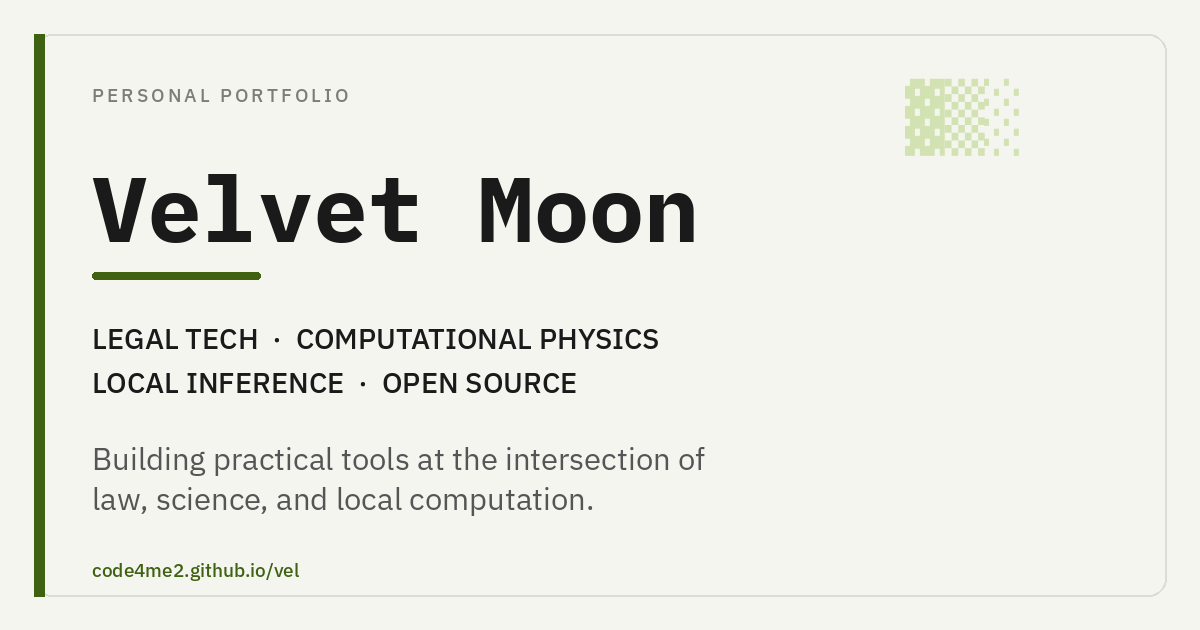
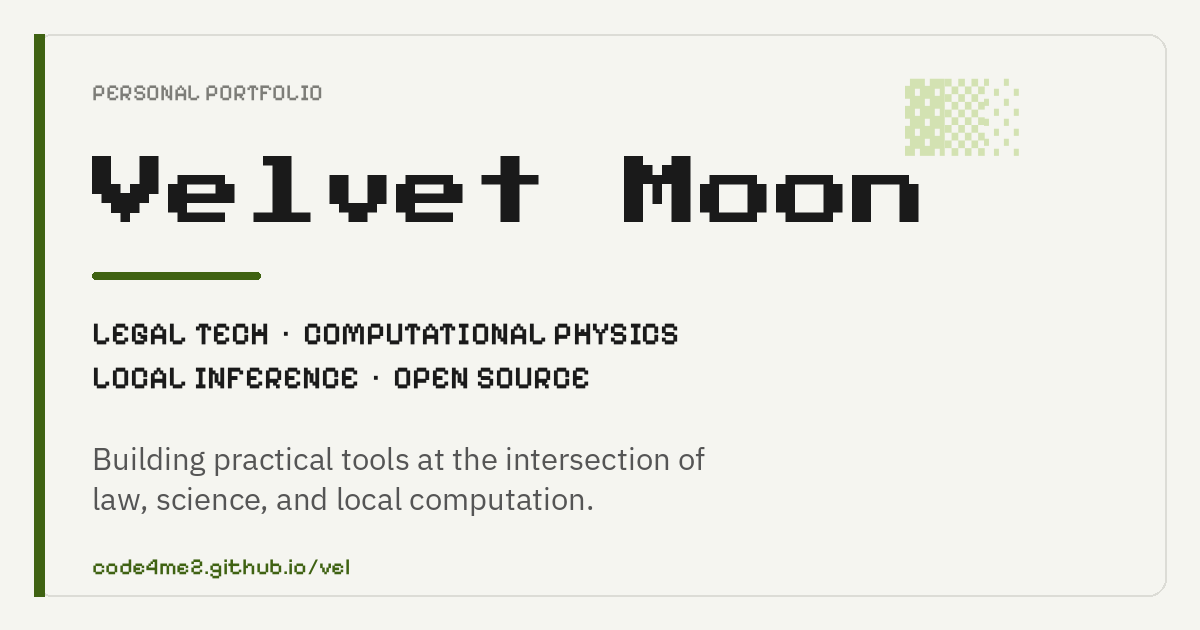
Use pixel fonts for display accents

diff --git a/styles.css b/styles.css
@@ -68,7 +68,8 @@ body {
 .topbar-link {
     text-decoration: none;
     color: var(--text-muted);
-    font-size: 0.82em;
+    font-family: 'Pixelify Sans', sans-serif;
+    font-size: 0.88em;
     font-weight: 500;
     letter-spacing: 0.5px;
     transition: color 0.2s;
@@ -137,19 +138,21 @@ header {
 }
 
 header h1 {
-    font-family: 'IBM Plex Mono', 'Courier New', monospace;
-    font-size: 3em;
-    font-weight: 700;
-    letter-spacing: -1.5px;
+    font-family: 'Press Start 2P', monospace;
+    font-size: clamp(1.45em, 5vw, 3em);
+    font-weight: 400;
+    line-height: 1.3;
+    letter-spacing: 0;
     color: var(--text);
     margin-bottom: 6px;
 }
 
 .tagline {
-    font-size: 0.78em;
+    font-family: 'Pixelify Sans', sans-serif;
+    font-size: 0.9em;
     color: var(--text-faint);
     font-weight: 500;
-    letter-spacing: 2px;
+    letter-spacing: 1px;
     text-transform: uppercase;
 }
 
@@ -171,7 +174,7 @@ section {
 }
 
 section h2 {
-    font-family: 'IBM Plex Mono', 'Courier New', monospace;
+    font-family: 'Pixelify Sans', sans-serif;
     font-size: 1.1em;
     font-weight: 600;
     color: var(--text);
@@ -186,7 +189,7 @@ section h2 {
 }
 
 .left-column .entry h3 {
-    font-family: 'IBM Plex Mono', 'Courier New', monospace;
+    font-family: 'Pixelify Sans', sans-serif;
     font-size: 1.25em;
     font-weight: 600;
     color: var(--text);
@@ -204,6 +207,7 @@ section h2 {
 }
 
 .left-column .entry .role {
+    font-family: 'Pixelify Sans', sans-serif;
     font-size: 0.92em;
     color: var(--accent);
     font-weight: 500;
@@ -251,7 +255,8 @@ section h2 {
 .project-list li a {
     text-decoration: none;
     color: var(--text);
-    font-size: 0.85em;
+    font-family: 'Pixelify Sans', sans-serif;
+    font-size: 0.95em;
     font-weight: 500;
     display: block;
     padding: 5px 0;
@@ -369,12 +374,9 @@ header > .scramble-trigger {
         padding: 60px 16px 60px 16px;
     }
 
-    header h1 {
-        font-size: 2.2em;
-    }
-
     .tagline {
-        font-size: clamp(0.38em, 2.2vw, 0.55em);
+        font-size: clamp(0.68em, 3vw, 0.78em);
+        line-height: 1.5;
         letter-spacing: 0;
         white-space: nowrap;
     }
@@ -410,10 +412,6 @@ header > .scramble-trigger {
 
     .wrapper {
         padding-top: 56px;
-    }
-
-    header h1 {
-        font-size: 1.8em;
     }
 }
 

diff --git a/index.html b/index.html
@@ -25,7 +25,7 @@
     <meta name="twitter:image:alt" content="Velvet Moon — Legal Tech, Computational Physics, and Local Inference">
     <link rel="preconnect" href="https://fonts.googleapis.com">
     <link rel="preconnect" href="https://fonts.gstatic.com" crossorigin>
-    <link href="https://fonts.googleapis.com/css2?family=IBM+Plex+Mono:wght@600;700&family=IBM+Plex+Sans:wght@400;500;600&display=swap" rel="stylesheet">
+    <link href="https://fonts.googleapis.com/css2?family=IBM+Plex+Sans:wght@400;500&family=Pixelify+Sans:wght@500;600&family=Press+Start+2P&display=swap" rel="stylesheet">
     <link rel="stylesheet" href="styles.css">
     <script>
         (function(){
